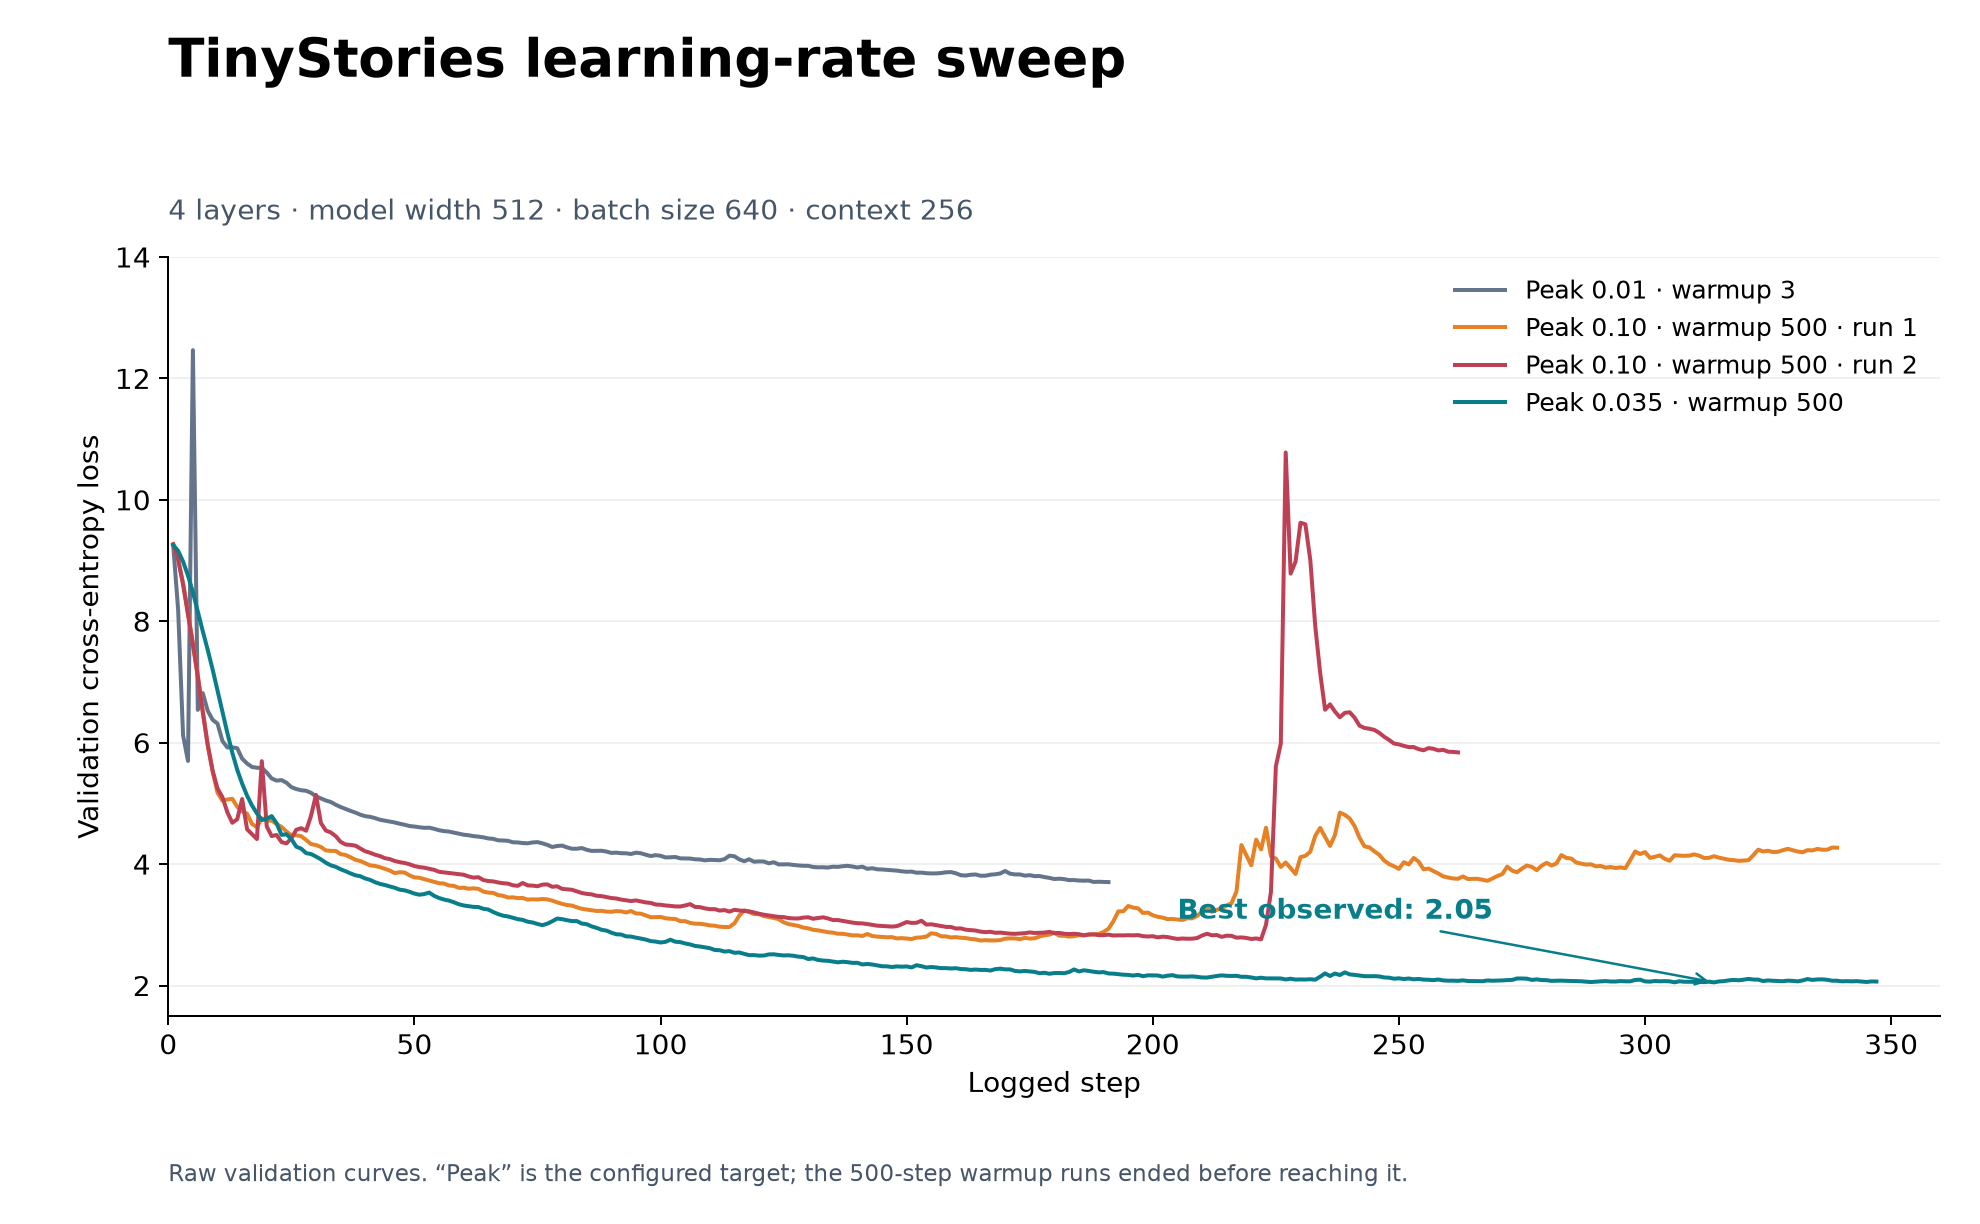
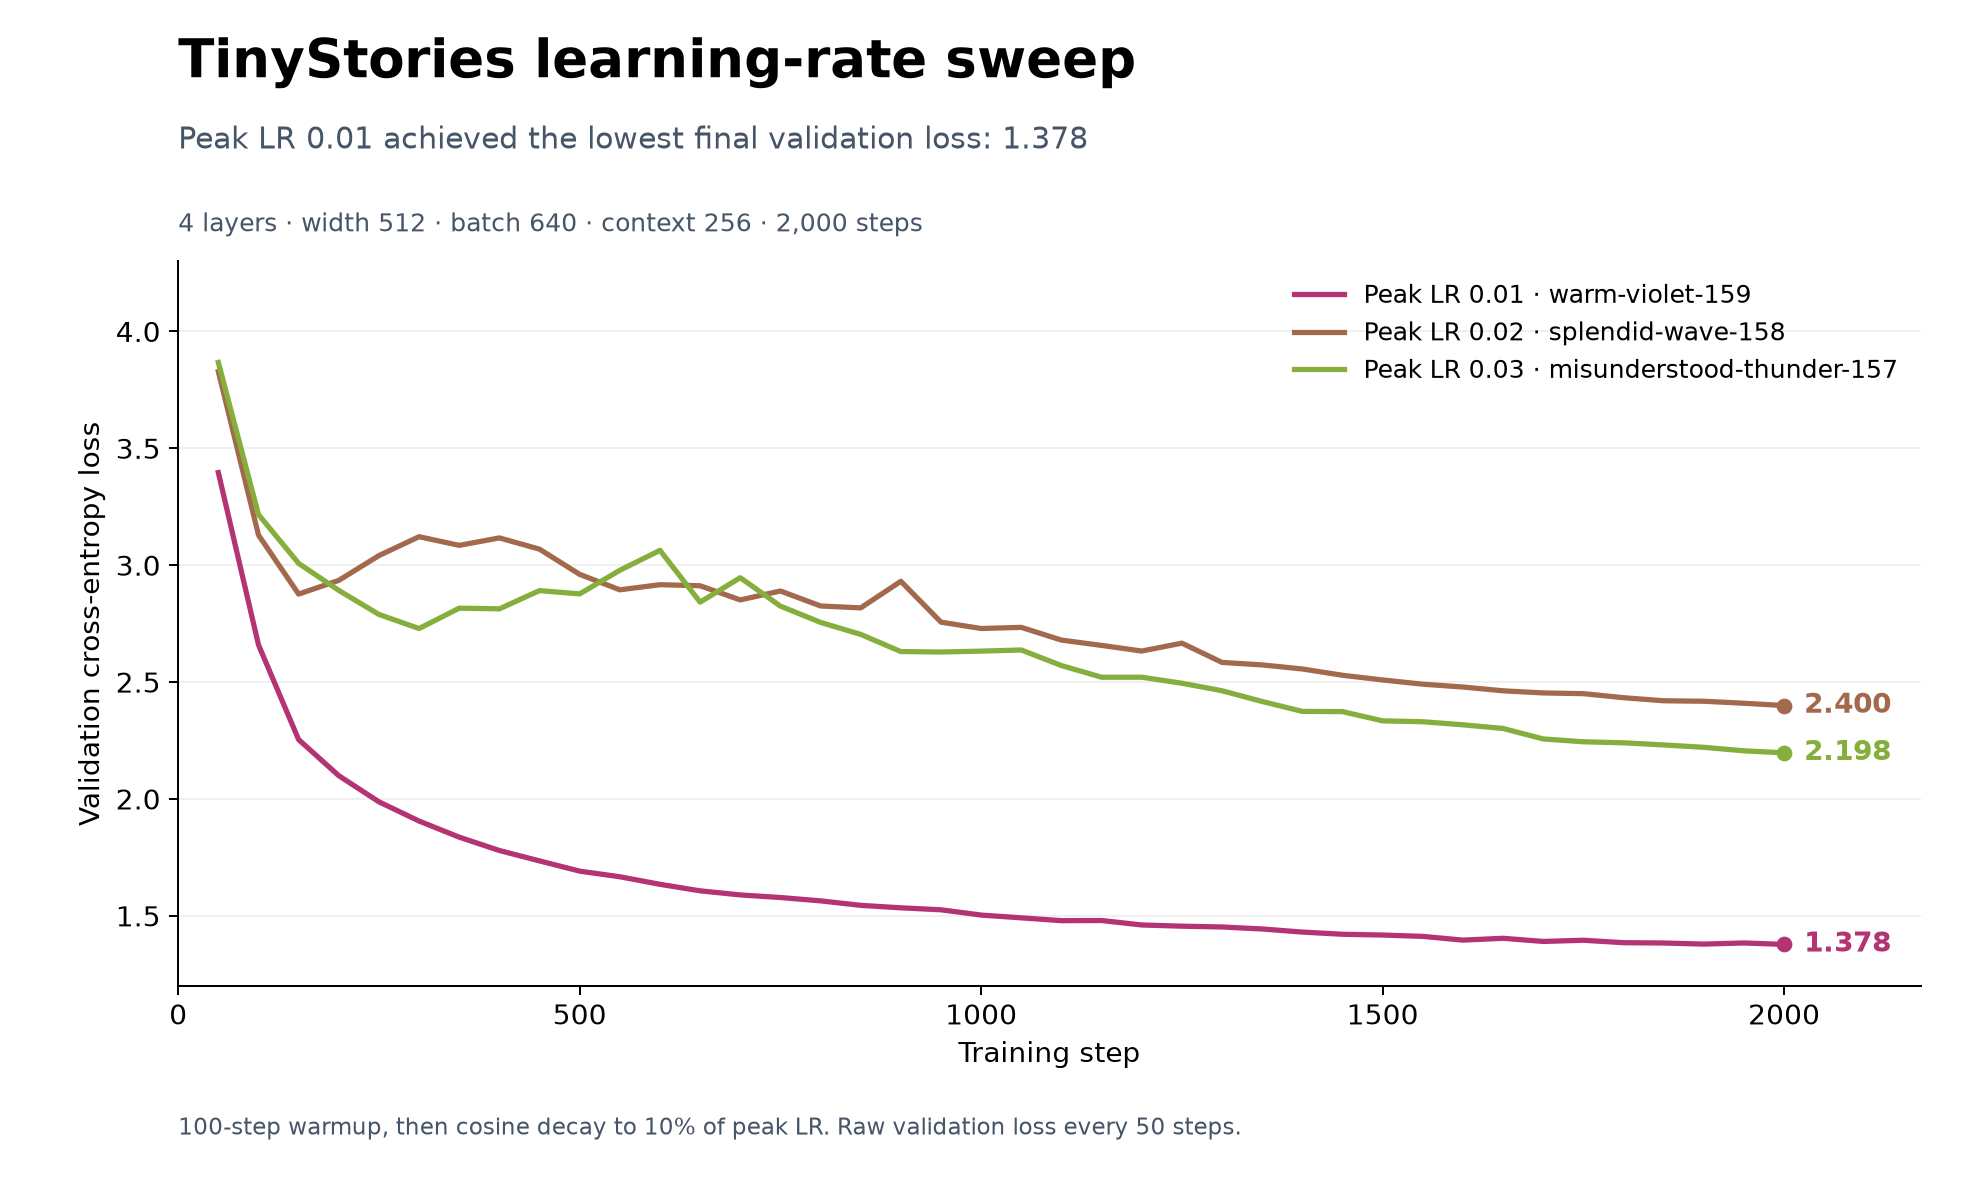
Use the three completed W&B learning-rate sweeps in README

diff --git a/README.md b/README.md
@@ -2,9 +2,11 @@
 
 My from-scratch implementation of Stanford CS336 Assignment 1, building and training a Transformer LM in PyTorch.
 
-![TinyStories LR sweep comparing validation loss across four learning-rate schedules](docs/images/lr-sweep.png)
+![TinyStories LR sweep comparing validation loss for peak learning rates 0.01, 0.02, and 0.03](docs/images/lr-sweep.png)
 
-The run targeting a peak learning rate of **0.035** reached **2.05 validation loss**; both runs targeting **0.1** improved initially, then became unstable during warmup. These early TinyStories experiments point toward a lower learning rate for the next run; experiments and the leaderboard run are in progress.
+Across three 2,000-step TinyStories runs, peak LR **0.01** achieved the lowest final validation loss: **1.378**, compared with **2.400** at 0.02 and **2.198** at 0.03. All three used 100 warmup steps followed by cosine decay to 10% of peak LR, with the same model, batch size, and context length.
+
+W&B runs: [warm-violet-159 · LR 0.01](https://forge.coreweave.com/wandb/alephnott/assignment1/runs/l5dba839), [splendid-wave-158 · LR 0.02](https://forge.coreweave.com/wandb/alephnott/assignment1/runs/tiuyf0cn), [misunderstood-thunder-157 · LR 0.03](https://forge.coreweave.com/wandb/alephnott/assignment1/runs/cwe96lt3).
 
 ## Current progress
 
